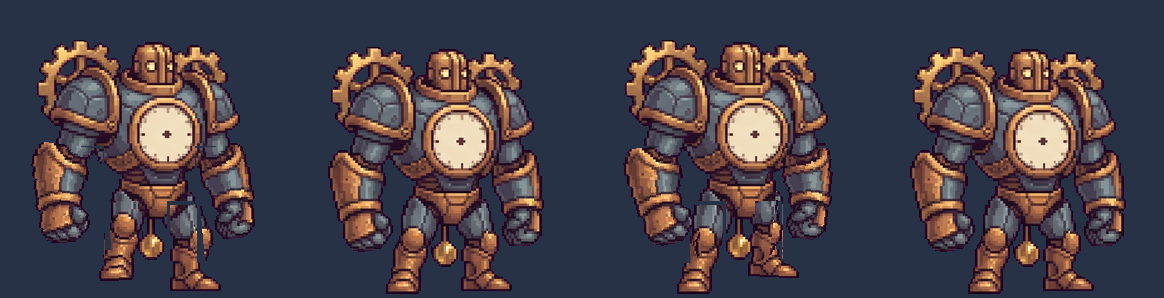
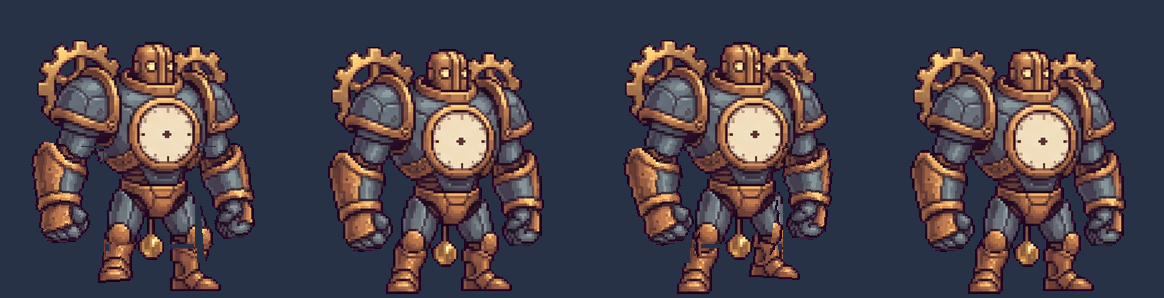
POC XI polish rounds 4 and 5: Twin walk, Trine lean and afterimages, cleaner Warden stride, carved shrines

diff --git a/prototypes/moon-road/dist/poc-xi/boss.js b/prototypes/moon-road/dist/poc-xi/boss.js
@@ -67,7 +67,7 @@ function dialAt(sprite, F, frame, originY) {
 export function twinWarden(def, S) {
   const twins = [0, 1].map(i => ({
     i, x: i ? 800 : 440, y: FLOOR, vx: 0, vy: 0, air: false, state: 'idle', timer: 1.6 + i * 0.9, hit: 0,
-    throwT: 0, sprite: S.add.sprite(0, 0, 'twin', 0).setOrigin(0.5, (ART.twin.frameHeight - 4) / ART.twin.frameHeight).setDepth(4),
+    throwT: 0, step: 0, walking: false, sprite: S.add.sprite(0, 0, 'twin', 0).setOrigin(0.5, (ART.twin.frameHeight - 4) / ART.twin.frameHeight).setDepth(4),
   }));
   const badge = S.add.text(0, 0, '', {fontFamily: 'monospace', fontSize: 22, fontStyle: 'bold', color: '#fff3d6', stroke: '#200a10', strokeThickness: 5}).setOrigin(0.5).setDepth(6);
   let dying = 0;
@@ -119,13 +119,29 @@ export function twinWarden(def, S) {
             tw.timer = active(tw) ? 1.3 : 3.2;
           }
         }
+        tw.walking = false;
+        if (!tw.air && tw.throwT <= 0 && !P.done) {
+          // Walk: the live twin stalks the dragon and keeps its range; the dormant one drifts away from it.
+          const dx = S.p.x - tw.x, adx = Math.abs(dx), other = twins[1 - tw.i];
+          const v = active(tw) ? (adx > 270 ? Math.sign(dx) * 78 : adx < 150 ? -Math.sign(dx) * 54 : 0) : (adx < 340 ? -Math.sign(dx) * 44 : 0);
+          const nx = Math.max(90, Math.min(870, tw.x + v * dt));
+          if (v && (Math.abs(nx - other.x) >= 80 || Math.abs(nx - other.x) > Math.abs(tw.x - other.x))) {
+            const before = Math.floor(tw.step) % 4;
+            tw.step += Math.abs(v) * dt / 20;
+            tw.x = nx;
+            tw.walking = true;
+            const after = Math.floor(tw.step) % 4;
+            if (after !== before && (after === 1 || after === 3) && active(tw)) { S.burst(tw.x + (after === 1 ? -14 : 14), FLOOR, 0xb8a888, 3); S.sfx(110, 0.05); }
+          }
+        }
         if (overlaps(targets[tw.i].rect(), S.playerRect())) S.hurtPlayer(tw.x);
       }
     },
     draw(g, t) {
       for (const tw of twins) {
         const on = active(tw), fall = dying ? Math.min(1.4, dying * 2) : 0;
-        tw.sprite.setFrame(tw.throwT > 0 ? 1 : 0).setPosition(tw.x + (tw.hit ? Math.sin(t * 90) * 5 : 0), tw.y).setFlipX(S.p.x < tw.x)
+        const stride = tw.walking && !tw.air && tw.throwT <= 0 && !dying;
+        tw.sprite.setTexture(stride ? 'twin-walk' : 'twin', stride ? Math.floor(tw.step) % 4 : tw.throwT > 0 ? 1 : 0).setPosition(tw.x + (tw.hit ? Math.sin(t * 90) * 5 : 0), tw.y).setFlipX(S.p.x < tw.x)
           .setRotation(fall * (tw.i ? 1 : -1)).setAlpha(dying ? Math.max(0, 1 - dying * 0.7) : on ? 1 : 0.42 + 0.08 * Math.sin(t * 4))
           .setTint(tw.hit ? 0xffffff : on ? 0xf2eadb : 0x8a90b8);
         if (on && !dying) { g.lineStyle(3, 0xffd59a, 0.35 + 0.2 * Math.sin(t * 6)); g.strokeEllipse(tw.x, tw.y - 70, 120, 170); }
@@ -146,7 +162,7 @@ export function trineGuardian(def, S) {
   const scale = 230 / 256, frames = S.cache.json.get('frames').guardian;
   const sprite = S.add.sprite(480, 380, 'guardian', 0).setOrigin(0.5, 1).setScale(scale).setDepth(4);
   const badge = S.add.text(0, 0, '', {fontFamily: 'monospace', fontSize: 22, fontStyle: 'bold', color: '#fff3d6', stroke: '#1a0c22', strokeThickness: 5}).setOrigin(0.5).setDepth(6);
-  const b = {x: 480, y: 380, state: 'float', timer: 2.2, hit: 0, frame: 0, tx: 480, from: null};
+  const b = {x: 480, y: 380, state: 'float', timer: 2.2, hit: 0, frame: 0, tx: 480, from: null, vx: 0, ghost: 0};
   let dying = 0, clock = 0;
   const P = platesFor(def, S, () => { dying = 0.001; S.sfx(80, 0.8); });
   const core = () => {
@@ -175,8 +191,12 @@ export function trineGuardian(def, S) {
       b.timer -= dt;
       if (b.state === 'float') {
         b.frame = b.hit ? 5 : 0;
-        b.x += (480 + Math.sin(clock * 0.7) * 260 - b.x) * Math.min(1, dt * 1.5);
-        b.y = 380 + Math.sin(clock * 2.2) * 14;
+        // Drift across the arena, shading toward the dragon so it never just hangs in one spot.
+        const want = Math.max(150, Math.min(810, 0.62 * (480 + Math.sin(clock * 0.7) * 260) + 0.38 * S.p.x));
+        const nx = b.x + (want - b.x) * Math.min(1, dt * 1.8);
+        b.vx = (nx - b.x) / Math.max(dt, 0.001);
+        b.x = nx;
+        b.y = 380 + Math.sin(clock * 2.2) * 16 + Math.sin(clock * 5.3) * 3;
         if (b.timer <= 0) { b.state = Math.random() < 0.55 ? 'volley' : 'telegraph'; b.timer = b.state === 'volley' ? 0.55 : 0.65; b.tx = S.p.x; }
       } else if (b.state === 'volley') {
         b.frame = 2;
@@ -191,6 +211,7 @@ export function trineGuardian(def, S) {
         if (b.timer <= 0) { b.state = 'dive'; b.timer = 0.45; b.from = {x: b.x, y: b.y}; S.sfx(200, 0.3); }
       } else if (b.state === 'dive') {
         const k = 1 - b.timer / 0.45;
+        b.vx = (b.tx - b.from.x) / 0.45;
         b.x = b.from.x + (b.tx - b.from.x) * k;
         b.y = b.from.y + (FLOOR - b.from.y) * k;
         if (b.timer <= 0) { b.state = 'rise'; b.timer = 0.8; S.cameras.main.shake(120, 0.005); }
@@ -201,9 +222,18 @@ export function trineGuardian(def, S) {
       if (overlaps({x: b.x - 60, y: b.y - 170, w: 120, h: 160}, S.playerRect())) S.hurtPlayer(b.x);
     },
     draw(g, t) {
-      sprite.setFrame(b.frame).setPosition(b.x, b.y)
+      // Lean into movement, wind up (squash + shake) before a dive, stretch through it, and leave afterimages.
+      const lean = dying ? 0 : Math.max(-0.14, Math.min(0.14, b.vx * 0.00045)), dive = b.state === 'dive', wind = b.state === 'telegraph';
+      sprite.setFrame(b.frame).setPosition(b.x + (wind ? Math.sin(t * 70) * 2 : 0), b.y).setRotation(lean)
+        .setScale(scale * (dive ? 0.92 : wind ? 1.05 : 1), scale * (dive ? 1.12 : wind ? 0.93 : 1))
         .setAlpha(dying ? Math.max(0, 1 - (dying - 0.5) * 1.1) : 1)
-        .setTint(b.hit ? 0xffffff : b.state === 'telegraph' && Math.floor(t * 16) % 2 ? 0xff9a8a : 0xffffff);
+        .setTint(b.hit ? 0xffffff : wind && Math.floor(t * 16) % 2 ? 0xff9a8a : 0xffffff);
+      b.ghost -= 1 / 60;
+      if (dive && b.ghost <= 0) {
+        b.ghost = 0.045;
+        const gh = S.add.sprite(b.x, b.y, 'guardian', b.frame).setOrigin(0.5, 1).setScale(scale).setDepth(3).setAlpha(0.35).setTint(0xc9a7ff);
+        S.tweens.add({targets: gh, alpha: 0, duration: 280, onComplete: () => gh.destroy()});
+      }
       const c = core();
       badge.setVisible(!P.done).setPosition(c.x, c.y - 70).setText(P.done ? '' : `${P.current().a} · ${P.current().b}`);
       if (!P.done) { g.fillStyle(0xfff0c0, 0.18 + 0.1 * Math.sin(t * 5)); g.fillCircle(c.x, c.y, 26); }

diff --git a/prototypes/moon-road/dist/poc-xi/actors.js b/prototypes/moon-road/dist/poc-xi/actors.js
@@ -385,6 +385,12 @@ export function orb(e, S, x, y) {
 export function shrine(e, S) {
   const x = (e.tx + 0.5) * TILE, y = e.ty * TILE;
   let armed = true;
+  // Carved plinth with a brazier: the flame burns bright while this is the respawn point, and one gem per beam it refills circles above.
+  const base = S.add.image(x, y, 'world', 'shrine_base.png').setOrigin(0.5, 1).setDepth(3);
+  const flame = S.add.image(x, y - 76, 'world', 'shrine_flame_0.png').setOrigin(0.5, 1).setDepth(3.2);
+  const fams = (e.orbs && e.orbs.length ? e.orbs : [0]);
+  const gems = fams.map(f => S.add.image(x, y - 110, 'world', 'shrine_gem.png').setDepth(3.3).setTint(f ? COLOR[f] : 0x8ff5e0));
+  const active = () => S.run.shrine && S.run.shrine.room === S.room.id && S.run.shrine.x === x;
   const self = {
     type: 'shrine', id: e.id, alive: true, x, y,
     update() {
@@ -395,19 +401,22 @@ export function shrine(e, S) {
         healFull(S.run);
         S.say('SHRINE · SAVED AND HEALED', 1.8);
         S.sfx(660, 0.3);
-        S.burst(x, y - 60, 0xd5eda7, 30);
+        S.burst(x, y - 80, 0xffdda0, 30);
+        S.pop(x, y - 78, 0xffdda0);
         S.log('shrine', {room: S.room.id});
       }
       if (!near) armed = true;
     },
     draw(g, t) {
-      g.fillStyle(0x0d1a28); g.fillRect(x - 22, y - 12, 44, 12);
-      g.fillStyle(0x2c4152); g.fillRect(x - 10, y - 70, 20, 58);
-      g.fillStyle(0x7d9b8f); g.fillRect(x - 16, y - 76, 32, 7);
-      g.fillStyle(0xf4dfa4, 0.95); g.fillRect(x - 5, y - 64, 10, 14);
-      g.fillStyle(0xffdda0, 0.1 + 0.04 * Math.sin(t * 3)); g.fillCircle(x, y - 58, 38);
+      const on = active();
+      flame.setFrame(`shrine_flame_${Math.floor(t * 9) % 3}.png`).setScale(on ? 1 + 0.05 * Math.sin(t * 7) : 0.55).setAlpha(on ? 1 : 0.55).setTint(on ? 0xffffff : 0x9ab4ff);
+      if (on) { g.fillStyle(0xffdda0, 0.1 + 0.04 * Math.sin(t * 3)); g.fillCircle(x, y - 80, 46); }
+      gems.forEach((gem, i) => {
+        const a = t * (on ? 1.4 : 0.6) + i * Math.PI * 2 / gems.length;
+        gem.setPosition(x + Math.cos(a) * 26, y - 112 + Math.sin(a) * 7).setAlpha(on ? 1 : 0.6).setDepth(Math.sin(a) > 0 ? 3.3 : 2.9);
+      });
     },
-    destroy() {},
+    destroy() { base.destroy(); flame.destroy(); gems.forEach(gem => gem.destroy()); },
   };
   return self;
 }

diff --git a/prototypes/moon-road/dist/poc-xi/art/art.js b/prototypes/moon-road/dist/poc-xi/art/art.js
@@ -1,2 +1,2 @@
 // Generated by art-source/poc-x/process.py. Frame sizes, anchors and clock-dial centres.
-export const ART = {"skeleton": {"frameWidth": 102, "frameHeight": 95, "frames": 4}, "bat": {"frameWidth": 93, "frameHeight": 67, "frames": 2}, "twin": {"frameWidth": 179, "frameHeight": 176, "frames": 2}, "clockwarden": {"frameWidth": 291, "frameHeight": 298, "frames": 5, "dials": [{"x": 0.579, "y": 0.463, "r": 0.088}, {"x": 0.579, "y": 0.463, "r": 0.088}, {"x": 0.497, "y": 0.581, "r": 0.082}, {"x": 0.534, "y": 0.538, "r": 0.081}, {"x": 0.535, "y": 0.666, "r": 0.067}]}, "sentinel": {"frameWidth": 183, "frameHeight": 162, "frames": 3, "dials": [{"x": 0.695, "y": 0.412, "r": 0.055}, {"x": 0.516, "y": 0.449, "r": 0.057}, {"x": 0.519, "y": 0.423, "r": 0.044}]}, "items": {"frameWidth": 48, "frameHeight": 48, "frames": 8, "names": ["tank", "boots", "expansion", "core5", "shield", "shieldplus", "heart", "crystal"]}, "clockwardenWalk": {"frameWidth": 291, "frameHeight": 298, "frames": 4, "dials": [{"x": 0.569, "y": 0.45, "r": 0.088}, {"x": 0.579, "y": 0.473, "r": 0.088}, {"x": 0.589, "y": 0.45, "r": 0.088}, {"x": 0.579, "y": 0.473, "r": 0.088}]}};
+export const ART = {"skeleton": {"frameWidth": 102, "frameHeight": 95, "frames": 4}, "bat": {"frameWidth": 93, "frameHeight": 67, "frames": 2}, "twin": {"frameWidth": 179, "frameHeight": 176, "frames": 2}, "clockwarden": {"frameWidth": 291, "frameHeight": 298, "frames": 5, "dials": [{"x": 0.579, "y": 0.463, "r": 0.088}, {"x": 0.579, "y": 0.463, "r": 0.088}, {"x": 0.497, "y": 0.581, "r": 0.082}, {"x": 0.534, "y": 0.538, "r": 0.081}, {"x": 0.535, "y": 0.666, "r": 0.067}]}, "sentinel": {"frameWidth": 183, "frameHeight": 162, "frames": 3, "dials": [{"x": 0.695, "y": 0.412, "r": 0.055}, {"x": 0.516, "y": 0.449, "r": 0.057}, {"x": 0.519, "y": 0.423, "r": 0.044}]}, "items": {"frameWidth": 48, "frameHeight": 48, "frames": 8, "names": ["tank", "boots", "expansion", "core5", "shield", "shieldplus", "heart", "crystal"]}, "clockwardenWalk": {"frameWidth": 291, "frameHeight": 298, "frames": 4, "dials": [{"x": 0.569, "y": 0.45, "r": 0.088}, {"x": 0.579, "y": 0.473, "r": 0.088}, {"x": 0.589, "y": 0.45, "r": 0.088}, {"x": 0.579, "y": 0.473, "r": 0.088}]}, "twinWalk": {"frameWidth": 179, "frameHeight": 176, "frames": 4}};

diff --git a/prototypes/moon-road/dist/poc-xi/scene.js b/prototypes/moon-road/dist/poc-xi/scene.js
@@ -35,6 +35,7 @@ export class MoonKeep extends Phaser.Scene {
     this.load.json('frames', '../assets/frames.json');
     for (const k of ['skeleton', 'bat', 'twin', 'clockwarden', 'sentinel', 'items'])
       this.load.spritesheet(k, `art/${k}.png`, {frameWidth: ART[k].frameWidth, frameHeight: ART[k].frameHeight});
+    this.load.spritesheet('twin-walk', 'art/twin-walk.png', {frameWidth: ART.twinWalk.frameWidth, frameHeight: ART.twinWalk.frameHeight});
     this.load.spritesheet('clockwarden-walk', 'art/clockwarden-walk.png', {frameWidth: ART.clockwardenWalk.frameWidth, frameHeight: ART.clockwardenWalk.frameHeight});
     for (const k of ['crypt', 'stars', 'vault', 'clock']) this.load.image(`bg-${k}`, `art/bg-${k}.png`);
     for (const k of ['atrium', 'crypt', 'stars', 'vault', 'clock', 'shaft']) this.load.spritesheet(`tex-${k}`, `art/tex-${k}.png`, {frameWidth: 32, frameHeight: 32});

diff --git a/prototypes/moon-road/scripts/make-twin-walk.py b/prototypes/moon-road/scripts/make-twin-walk.py
@@ -1,0 +1,71 @@
+# Twin Warden walk cycle, rigged from its idle frame (frame 0 of dist/poc-xi/art/twin.png): legs lift and plant,
+# body bobs, the lantern arm swings. Output dist/poc-xi/art/twin-walk.png (4 x 179 x 176) and ART.twinWalk in art.js.
+import json
+import re
+from pathlib import Path
+from PIL import Image, ImageChops, ImageDraw
+
+root = Path(__file__).resolve().parents[1]
+W, H = 179, 176
+base = Image.open(root / 'dist/poc-xi/art/twin.png').convert('RGBA').crop((0, 0, W, H))
+
+
+def region(poly):
+    m = Image.new('L', (W, H), 0)
+    ImageDraw.Draw(m).polygon(poly, fill=255)
+    return m
+
+
+LEG_L = region([(46, 128), (84, 128), (84, H), (46, H)])
+LEG_R = region([(104, 128), (144, 128), (144, H), (104, H)])
+ARM = region([(128, 50), (176, 50), (176, 118), (128, 118)])
+
+
+def cut(mask):
+    part = Image.new('RGBA', (W, H))
+    part.paste(base, (0, 0), mask)
+    return part
+
+
+torso = base.copy()
+for m in (LEG_L, LEG_R, ARM):
+    torso.paste(Image.new('RGBA', (W, H)), (0, 0), m)
+leg_l, leg_r, arm = cut(LEG_L), cut(LEG_R), cut(ARM)
+
+
+def pose(part, pivot, angle=0, dx=0, dy=0):
+    if angle:
+        part = part.rotate(angle, resample=Image.Resampling.NEAREST, center=pivot)
+    out = Image.new('RGBA', (W, H))
+    out.alpha_composite(part, (round(dx), round(dy)))
+    return out
+
+
+CYCLE = [
+    dict(ll=(9, 3), lr=(0, 0), by=-3, bx=-2, arm=-8),
+    dict(ll=(0, 0), lr=(0, 0), by=2, bx=0, arm=0),
+    dict(ll=(0, 0), lr=(9, -3), by=-3, bx=2, arm=8),
+    dict(ll=(0, 0), lr=(0, 0), by=2, bx=0, arm=0),
+]
+frames = []
+for c in CYCLE:
+    f = Image.new('RGBA', (W, H))
+    f.alpha_composite(pose(leg_l, (65, 128), c['ll'][1], 0, -c['ll'][0]))
+    f.alpha_composite(pose(leg_r, (124, 128), c['lr'][1], 0, -c['lr'][0]))
+    f.alpha_composite(pose(torso, (90, 128), 0, c['bx'], c['by']))
+    f.alpha_composite(pose(arm, (128, 60), c['arm'], c['bx'], c['by']))
+    frames.append(f)
+sheet = Image.new('RGBA', (W * 4, H))
+for i, f in enumerate(frames):
+    sheet.paste(f, (i * W, 0))
+sheet.save(root / 'dist/poc-xi/art/twin-walk.png', optimize=True)
+
+art_path = root / 'dist/poc-xi/art/art.js'
+txt = art_path.read_text(encoding='utf-8')
+m = re.search(r'export const ART = (\{.*\});', txt, re.S)
+art = json.loads(m.group(1))
+art['twinWalk'] = {'frameWidth': W, 'frameHeight': H, 'frames': 4}
+art_path.write_text(txt[:m.start()] + 'export const ART = ' + json.dumps(art) + ';' + txt[m.end():], encoding='utf-8')
+prev = Image.new('RGBA', sheet.size, (40, 50, 70, 255)); prev.alpha_composite(sheet)
+prev.save(root / 'art-source/poc-xi/twin-walk-preview.png')
+print('twin walk', sheet.size)

diff --git a/prototypes/moon-road/scripts/make-poc-xi-world.py b/prototypes/moon-road/scripts/make-poc-xi-world.py
@@ -182,4 +182,33 @@ d.rectangle([14, 38, 29, 43], fill=rgba(BRASS)); d.rectangle([14, 0, 29, 3], fil
 outline(im).save(out / 'ammo_all.png')
 
 # unlock orb frame: same capsule shell, empty (the game tints/overlays the beam on top)
+# ---------- shrine: carved plinth with a brass brazier (native 60 x 92), flame frames and a gem ----------
+im, d = canvas(30, 46)
+d.rectangle([0, 38, 29, 45], fill=rgba(STONE_D)); d.rectangle([1, 38, 28, 44], fill=rgba(STONE)); speckle(d, (1, 38, 28, 44), 22, (STONE_D, STONE_L))
+d.line([(1, 38), (28, 38)], fill=rgba(STONE_L)); d.rectangle([3, 34, 26, 37], fill=rgba(STONE)); d.line([(3, 34), (26, 34)], fill=rgba(STONE_L))
+d.rectangle([2, 40, 27, 41], fill=rgba(BRASS)); d.point((2, 40), fill=rgba(BRASS_L))
+d.polygon([(8, 34), (22, 34), (20, 14), (10, 14)], fill=rgba(STONE)); speckle(d, (9, 15, 21, 33), 26, (STONE_D, STONE_L))
+d.line([(10, 14), (8, 34)], fill=rgba(STONE_L)); d.line([(20, 14), (22, 34)], fill=rgba(STONE_D))
+for y, w in ((19, 2), (25, 2), (30, 2)):
+    d.line([(15 - w, y), (15 + w, y)], fill=(143, 245, 224, 255)); d.point((15, y - 1), fill=(143, 245, 224, 255))
+d.rectangle([9, 14, 21, 15], fill=rgba(BRASS)); d.line([(9, 14), (21, 14)], fill=rgba(BRASS_L))
+d.polygon([(4, 6), (26, 6), (22, 13), (8, 13)], fill=rgba(BRASS)); d.polygon([(6, 7), (24, 7), (21, 12), (9, 12)], fill=rgba(BRASS_D))
+d.line([(4, 6), (26, 6)], fill=rgba(BRASS_L)); d.ellipse([7, 4, 23, 8], fill=rgba((26, 20, 22)))
+d.arc([5, 5, 14, 12], 180, 270, fill=rgba(BRASS_L))
+save(im, 'shrine_base')
+
+for f in range(3):
+    im, d = canvas(14, 20)
+    sway = (-1, 0, 1)[f]
+    d.polygon([(7, 19), (2, 13), (4, 6 - f), (7, 0 + f), (10, 6 - f), (12, 13)], fill=(255, 150, 54, 255))
+    d.polygon([(7, 19), (4, 14), (5 + sway, 8), (7 + sway, 3 + f), (9 + sway, 8), (10, 14)], fill=(255, 210, 96, 255))
+    d.polygon([(7, 19), (5, 15), (7, 9 + f), (9, 15)], fill=(255, 250, 214, 255))
+    save(im, f'shrine_flame_{f}', ink=False)
+
+im, d = canvas(7, 9)
+d.polygon([(3, 0), (6, 3), (3, 8), (0, 3)], fill=(255, 255, 255, 255))
+d.polygon([(3, 1), (5, 3), (3, 6), (1, 3)], fill=(214, 224, 236, 255))
+d.point((2, 2), fill=(255, 255, 255, 255))
+save(im, 'shrine_gem')
+
 print('world frames:', len(list(out.glob('*.png'))))

diff --git a/prototypes/moon-road/scripts/make-warden-walk.py b/prototypes/moon-road/scripts/make-warden-walk.py
@@ -22,8 +22,9 @@ def region(poly):
 
 # masks (pixel coords in the standing frame)
 PENDULUM = region([(141, 205), (169, 205), (169, 264), (141, 264)])  # hangs from the pelvis: stays with the torso
-LEG_L = region([(108, 205), (153, 205), (153, 298), (80, 298), (80, 263), (108, 263)])  # fist overlaps the thigh above y262
-LEG_R = region([(168, 205), (196, 205), (196, 263), (236, 263), (236, 298), (168, 298)])
+KNEE = 248  # only the shin and foot lift; thigh and knee guard stay with the torso, which hides the cut seam
+LEG_L = region([(108, KNEE), (153, KNEE), (153, 298), (80, 298), (80, 263), (108, 263)])
+LEG_R = region([(168, KNEE), (196, KNEE), (196, 263), (236, 263), (236, 298), (168, 298)])
 ARM_L = region([(30, 150), (106, 150), (106, 262), (30, 262)])
 ARM_R = region([(198, 150), (256, 150), (256, 262), (198, 262)])
 from PIL import ImageChops
@@ -59,9 +60,9 @@ def pose(part, pivot, angle=0, dx=0, dy=0):
 
 # (left-leg lift, left-leg swing, right-leg lift, right-leg swing, body dy, body dx, arm swing deg)
 CYCLE = [
-    dict(ll=(14, 3), lr=(0, 0), by=-4, bx=-3, al=-7, ar=5),   # left foot lifted
+    dict(ll=(13, 4), lr=(0, 0), by=-4, bx=-3, al=-7, ar=5),   # left foot lifted
     dict(ll=(0, 0), lr=(0, 0), by=3, bx=0, al=0, ar=0),        # footfall, body drops
-    dict(ll=(0, 0), lr=(14, -3), by=-4, bx=3, al=5, ar=-7),    # right foot lifted
+    dict(ll=(0, 0), lr=(13, -4), by=-4, bx=3, al=5, ar=-7),    # right foot lifted
     dict(ll=(0, 0), lr=(0, 0), by=3, bx=0, al=0, ar=0),        # footfall
 ]
 def despeckle(img, min_area=120):
@@ -93,8 +94,8 @@ def despeckle(img, min_area=120):
 frames = []
 for c in CYCLE:
     f = Image.new('RGBA', (W, H))
-    f.alpha_composite(pose(leg_l, (126, 205), c['ll'][1], 0, -c['ll'][0]))
-    f.alpha_composite(pose(leg_r, (190, 205), c['lr'][1], 0, -c['lr'][0]))
+    f.alpha_composite(pose(leg_l, (126, KNEE), c['ll'][1], 0, -c['ll'][0]))
+    f.alpha_composite(pose(leg_r, (190, KNEE), c['lr'][1], 0, -c['lr'][0]))
     f.alpha_composite(pose(torso, (150, 205), 0, c['bx'], c['by']))
     f.alpha_composite(pose(arm_l, (80, 150), c['al'], c['bx'], c['by']))
     f.alpha_composite(pose(arm_r, (225, 150), c['ar'], c['bx'], c['by']))

diff --git a/prototypes/moon-road/ASSETS.md b/prototypes/moon-road/ASSETS.md
@@ -21,6 +21,10 @@ Web Audio effects are synthesized locally. Fonts are device monospace fonts; no 
 
 Pixelorama (MIT), LDtk (MIT), TexturePacker (commercial, CodeAndWeb license accepted per machine), Blender and Godot (MIT/GPL, no output restrictions) are used on the developer machine to author art and levels. Their binaries and installers are not committed (see `.gitignore`); only their outputs (PNG strips, Phaser atlas JSON, `.ldtk` level JSON) are. TexturePacker free/trial output must not ship in a public build without an appropriate license. Phaser 4.2.1 is kept locally for reference only; the game ships Phaser 3.90.0. See TOOLCHAIN.md.
 
+## POC XI hand-built art
+
+Beam, muzzle and impact sprites, the Clock Shield, carved number blocks, doors, portcullises, seal slabs, rune altars, the portal arch, ammo capsules and drops, shrines and the Moon Library props are drawn in code with Pillow (`scripts/make-poc-xi-fx.py`, `make-poc-xi-world.py`, `make-library-props.py`) and packed with TexturePacker; they are original and not AI-generated. The orange dragon sheet is a recolor of the existing generated dragon (`scripts/recolor-dragon.py`). The Clockwork Warden and Twin Warden walk cycles are procedural re-poses of the existing generated standing sprites (`make-warden-walk.py`, `make-twin-walk.py`); no new image-model output was used in POC XI.
+
 ## POC VIII skeleton reference
 
 The Graveyard skeleton body is reused from William's supplied Higgsfield prototype, `https://studigo-graveyard-123.higgsfield.app`, via its authorized source checkout (`app/public/client.js`, `drawSkeleton`, inspected 2026-09-29). The existing procedural skull, ribs, limbs and belt are rendered into a local Phaser canvas texture; number overlays and combat effects remain separate. No third-party pack license is claimed. See POC-VIII.md for provenance and preservation boundaries. All shared generated images remain unchanged.

diff --git a/prototypes/moon-road/POC-XI.md b/prototypes/moon-road/POC-XI.md
@@ -37,4 +37,9 @@ LDtk conventions: IntGrid `Collision` 1 = wall, 2 = one-way platform. Skeleton/I
 - Ammo: capsules and drops carry their beam's look (×2 fireball, ×3 lance, ×4 crescent, ×5 star; refill-all is a gold cross).
 - Clockwork Warden walk cycle: `scripts/make-warden-walk.py` rigs the standing sprite (legs lift and plant, torso bobs, arms swing) into `art/clockwarden-walk.png` plus per-frame dial anchors in `art.js`. In `boss.js` it stomps toward the dragon when far, backs off when crowded and paces otherwise, shaking the floor and kicking dust on each footfall. This is a procedural re-pose of the single standing frame, not newly painted art; a hand-painted or AI-generated cycle can replace the sheet without code changes.
 
-Planned: round 5 gives the shrines distinct art.
+**Round 4: bosses move like the monsters.**
+- Twin Warden: a four-frame walk cycle (`scripts/make-twin-walk.py` -> `art/twin-walk.png`). The live twin stalks the dragon and keeps its range, the dormant one drifts away, with dust on each footfall. Hops and bone throws are unchanged.
+- Trine Guardian: drifts across the arena shaded toward the dragon, leans into its movement, winds up (squash and shake) before a dive, stretches through it and leaves afterimages.
+- Clockwork Warden: the walk now lifts only the shin and foot (knee guard stays put), which removes the cut-line artifacts from round 3.
+
+**Round 5: shrines.** A carved plinth with a brass brazier replaces the grey rectangles (`shrine_*` frames in the world atlas). The flame burns bright while the shrine is your respawn point and sits low and cold otherwise. One gem per beam the shrine refills circles above it, in that beam's colour (a plain teal gem for save-only shrines), and touching it plays a flare.
